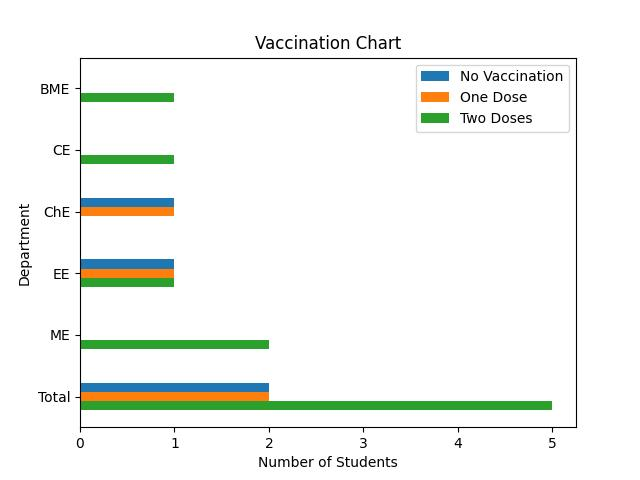
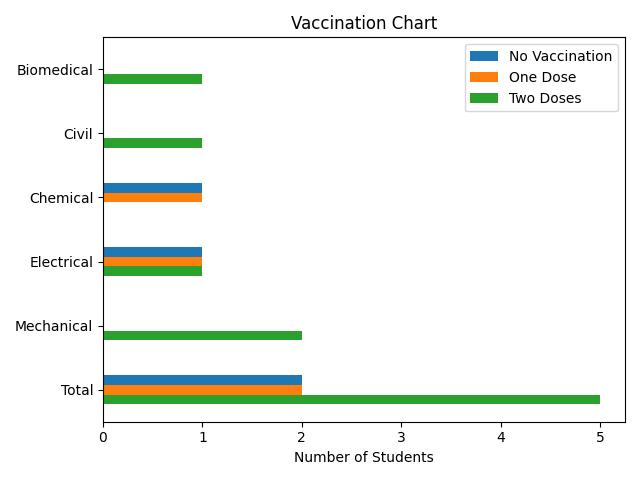
Updated the database to store department as int

diff --git a/templates/remove.html b/templates/remove.html
@@ -17,19 +17,6 @@
                     {{ form.id(class="form-control") }}
                 {% endif %}
             </div>
-            <div class="form-group mb-4">
-                {{ form.department.label(class="form-control-label") }}
-                {% if form.department.errors %}
-                    {{ form.department(class="form-control is-invalid") }}
-                    <div class="invalid-feedback">
-                        {% for error in form.department.errors %}
-                            <span>{{ error }}</span>
-                        {% endfor %}
-                    </div>
-                {% else %}
-                    {{ form.department(class="form-control") }}
-                {% endif %}
-            </div>
         </fieldset>
         <div class="form-group">
             {{ form.enter(class="btn btn-outline-secondary") }}

diff --git a/main.py b/main.py
@@ -9,6 +9,7 @@ import matplotlib.pyplot as plt
 
 app = Flask(__name__)
 app.config["SECRET_KEY"] = "c8b49ab7a60dcb042d7d8148617fdf91"
+departments = ['Mechanical', 'Electrical', 'Chemical', 'Civil', 'Biomedical']
 
 
 def db_connect():
@@ -22,7 +23,7 @@ def db_connect():
         c.execute("""CREATE TABLE students ( 
                 name text,
                 id int,
-                dept text, 
+                dept int, 
                 vaccine int)""")
 
         db.commit()
@@ -30,75 +31,40 @@ def db_connect():
 
 
 def create_plot():
-    n = [0, 0, 0, 0, 0, 0]
-    o = [0, 0, 0, 0, 0, 0]
-    t = [0, 0, 0, 0, 0, 0]
+    no_shots = [0, 0, 0, 0, 0, 0]
+    one_shot = [0, 0, 0, 0, 0, 0]
+    two_shots = [0, 0, 0, 0, 0, 0]
 
     conn = db_connect()
     c = conn.cursor()
     items = c.execute("SELECT * FROM students").fetchall()
 
-    for i in items:
-        if i[2] == 'Biomedical':
-            if i[3] == 0:
-                n[5] += 1
-            if i[3] == 1:
-                o[5] += 1
-            if i[3] == 2:
-                t[5] += 1
+    for item in items:
+        if item[3] == 0:
+            no_shots[item[2]] += 1
+            no_shots[0] += 1
+        elif item[3] == 1:
+            one_shot[item[2]] += 1
+            one_shot[0] += 1
+        else:
+            two_shots[item[2]] += 1
+            two_shots[0] += 1
 
-        if i[2] == 'Civil':
-            if i[3] == 0:
-                n[4] += 1
-            if i[3] == 1:
-                o[4] += 1
-            if i[3] == 2:
-                t[4] += 1
-
-        if i[2] == 'Chemical':
-            if i[3] == 0:
-                n[3] += 1
-            if i[3] == 1:
-                o[3] += 1
-            if i[3] == 2:
-                t[3] += 1
-
-        if i[2] == 'Electrical':
-            if i[3] == 0:
-                n[2] += 1
-            if i[3] == 1:
-                o[2] += 1
-            if i[3] == 2:
-                t[2] += 1
-
-        if i[2] == 'Mechanical':
-            if i[3] == 0:
-                n[1] += 1
-            if i[3] == 1:
-                o[1] += 1
-            if i[3] == 2:
-                t[1] += 1
-
-        if i[3] == 0:
-            n[0] += 1
-        if i[3] == 1:
-            o[0] += 1
-        if i[3] == 2:
-            t[0] += 1
-
-    sub = ['Total', 'ME', 'EE', 'ChE', 'CE', 'BME']
+    sub = departments.copy()
+    sub.insert(0, "Total")
 
     height = 0.15
     values = np.arange(len(sub))
-    plt.barh(values + height + height, n, height, label='No Vaccination')
-    plt.barh(values + height, o, height, label='One Dose')
-    plt.barh(values, t, height, label='Two Doses')
+    plt.barh(values + height + height, no_shots, height, label='No Vaccination')
+    plt.barh(values + height, one_shot, height, label='One Dose')
+    plt.barh(values, two_shots, height, label='Two Doses')
 
-    plt.ylabel('Department')
+    #plt.ylabel('Department')
     plt.xlabel('Number of Students')
     plt.title('Vaccination Chart')
     plt.legend()
     plt.yticks(values + height, sub)
+    plt.tight_layout()
     plt.savefig("static/stats.jpg")
     plt.plot()
     plt.clf()
@@ -121,6 +87,7 @@ def add():
             c.execute("INSERT INTO students VALUES (:name, :id, :dept, :vacc)", {"name": form.name.data, "id": form.id.data, "dept": form.department.data, "vacc": form.status.data})
             conn.commit()
             flash(f"Student {form.name.data} has been added!", "success")
+            conn.close()
             return redirect(url_for("student", student_id=form.id.data))
         else:
             flash(f"Student {form.name.data} already exists!", "danger")
@@ -137,6 +104,7 @@ def search():
         student = c.execute("SELECT * FROM students WHERE id=:id", {"id": form.id.data}).fetchone()
         if student is not None:
             flash(f"Student with ID: {form.id.data} has been found!", "success")
+            conn.close()
             return redirect(url_for("student", student_id=form.id.data))
         else:
             flash("No such entry exists!", "danger")
@@ -148,10 +116,11 @@ def search():
 def student(student_id):
     conn = db_connect()
     c = conn.cursor()
-    student = c.execute("SELECT * FROM students WHERE id=:id", {"id": student_id}).fetchone()
+    student = list(c.execute("SELECT * FROM students WHERE id=:id", {"id": student_id}).fetchone())
     if student is None:
         conn.close()
         abort(404)
+    student[2] = departments[student[2] - 1]
     conn.close()
     return render_template("student.html", student=student)
 
@@ -196,6 +165,7 @@ def remove():
             c.execute("DELETE FROM students WHERE id=:id", {"id": form.id.data})
             conn.commit()
             flash(f"Student with ID: {form.id.data} has been removed!", "success")
+            conn.close()
             return redirect(url_for("home"))
         else:
             flash("No such entry exists!", "danger")
@@ -214,6 +184,9 @@ def database():
     conn = db_connect()
     c = conn.cursor()
     students = c.execute("SELECT * FROM students").fetchall()
+    for index, s in enumerate(students):
+        students[index] = list(students[index])
+        students[index][2] = departments[students[index][2] - 1]
     conn.close()
     return render_template("database.html", students=students)
 

diff --git a/forms.py b/forms.py
@@ -6,8 +6,8 @@ from wtforms.validators import DataRequired
 class AddForm(FlaskForm):
     name = StringField("Name", validators=[DataRequired()])
     id = IntegerField("ID", validators=[DataRequired()])
-    department = SelectField("Department", choices=["Biomedical", "Chemical", "Civil", "Electrical", "Mechanical"],
-                             validators=[DataRequired()])
+    department = SelectField("Department", choices=[(1, "Mechanical"), (2, "Electrical"), (3, "Chemical"), (4, "Civil"),
+                                                    (5, "Biomedical")], validators=[DataRequired()], coerce=int)
     status = SelectField("Vaccination Status", choices=[(0, "Not Vaccinated"), (1, "First Dose"), (2, "Second Dose")],
                          validators=[DataRequired()], coerce=int)
     enter = SubmitField("Add")
@@ -20,7 +20,4 @@ class SearchForm(FlaskForm):
 
 class RemoveForm(FlaskForm):
     id = IntegerField("ID", validators=[DataRequired()])
-    department = SelectField("Department",
-                             choices=[(1, "Biomedical"), (2, "Chemical"), (3, "Civil"), (4, "Electrical"),
-                                      (5, "Mechanical")])
     enter = SubmitField("Remove")
